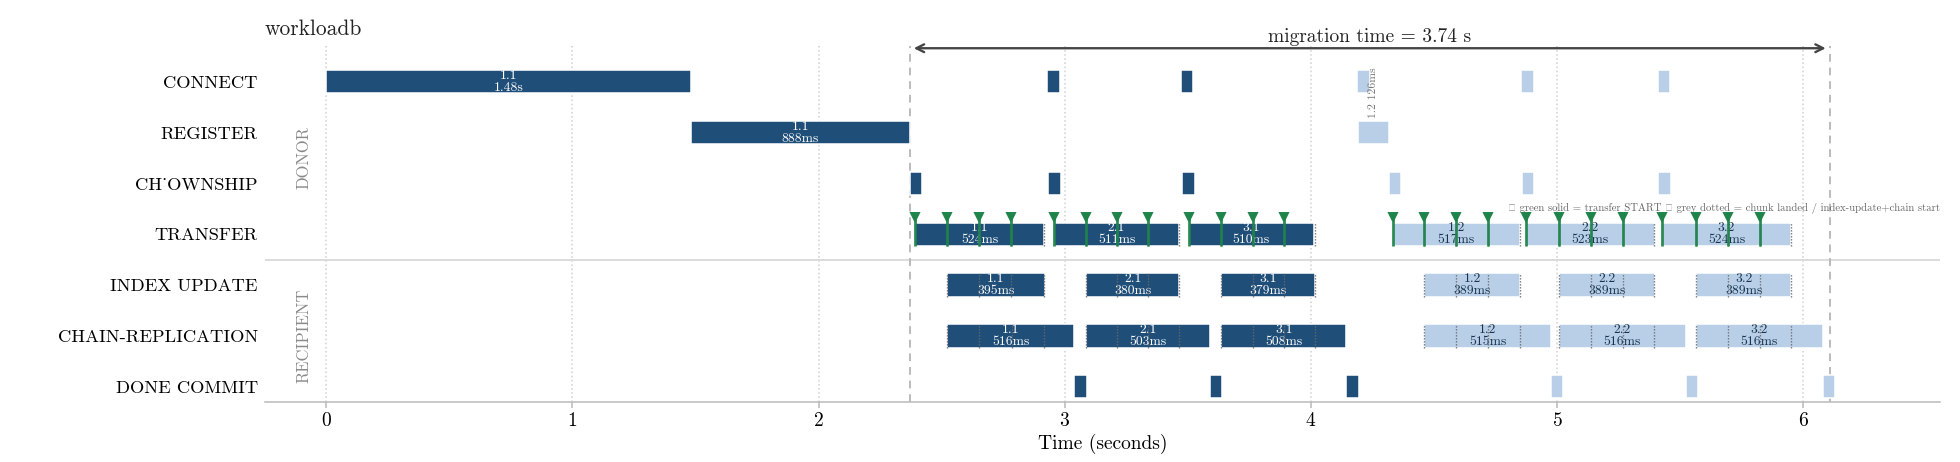
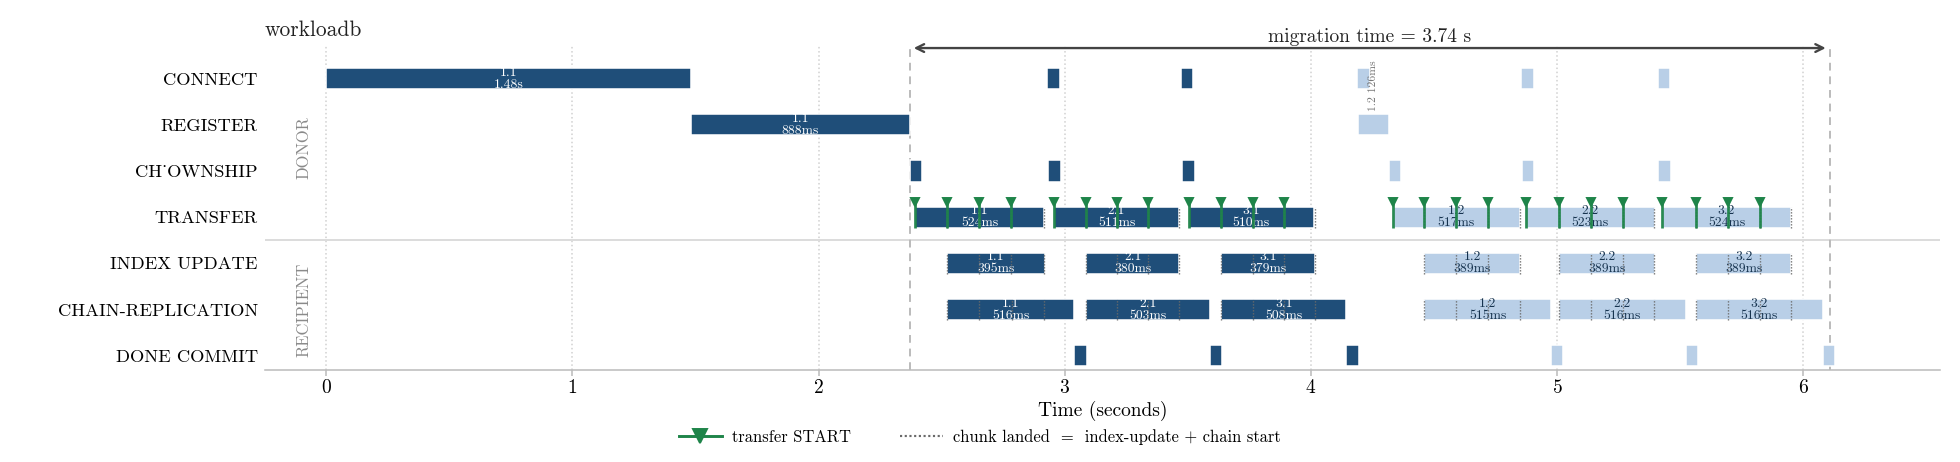
gantt: move per-chunk key into a full-width bottom legend
Replace the small top-right corner text with a proper centered legend below the
x-axis label (green ▼ = transfer START, grey dotted = chunk landed = index-update
+ chain start); widen the bottom margin to fit it. Refresh both reference Gantts.

diff --git a/plot_phase_gantt.py b/plot_phase_gantt.py
@@ -233,10 +233,15 @@ for sg, ri, s in rows:
         ax.plot([x], [y+BAR_H/2+0.10], marker="v", color=_GRN, markersize=4.5,
                 zorder=9, clip_on=False)
         _nst += 1; seq += 1
+_leg_handles = None
 if _nck:
-    ax.text(xmax, LANE_Y["TRANSFER"]+BAR_H/2+0.16,
-            "▼ green solid = transfer START · grey dotted = chunk landed / index-update+chain start",
-            ha="right", va="bottom", fontsize=5.5, color="#555", alpha=0.9)
+    from matplotlib.lines import Line2D
+    _leg_handles = [
+        Line2D([0], [0], color=_GRN, lw=1.5, marker="v", markersize=7,
+               label="transfer START"),
+        Line2D([0], [0], color="#6a6a6a", lw=1.1, ls=(0, (1, 1.2)),
+               label="chunk landed  =  index-update + chain start"),
+    ]
 
 # panel label, top-left (echoes the reference's "0.1 MOp/s" style)
 _wl = "workloadb" if "workloadb" in str(expdir) else "workloada"
@@ -256,10 +261,14 @@ ax.set_axisbelow(True)
 for sp in ("top","right","left"): ax.spines[sp].set_visible(False)
 ax.spines["bottom"].set_color("#bbb")
 
-# Legend intentionally omitted.
+# Full-width legend across the bottom, below the x-axis label.
+if _leg_handles is not None:
+    fig.legend(handles=_leg_handles, loc="lower center", ncol=2,
+               bbox_to_anchor=(0.5, 0.005), frameon=False, fontsize=8.5,
+               handlelength=2.6, columnspacing=3.0, handletextpad=0.6)
 
 # Fixed margins (no tight-bbox crop) so the saved image keeps the golden-ratio canvas.
-fig.subplots_adjust(left=0.135, right=0.99, top=0.90, bottom=0.13)
+fig.subplots_adjust(left=0.135, right=0.99, top=0.90, bottom=0.20)
 fig.savefig(out, dpi=140, facecolor="white")
 import PIL.Image as _I; _w,_h = _I.open(out).size
 print(f"wrote {out}  ({_w}x{_h}, ratio={_w/_h:.3f})")
